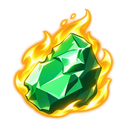
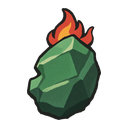
Redraw Burning Gem in native Slay the Spire relic style

diff --git a/docs/worktree-tasks/junna-gem-icons-20261112/README.md b/docs/worktree-tasks/junna-gem-icons-20261112/README.md
@@ -155,9 +155,9 @@ Report the resulting branch, commit, verification, cleanup state, and task docum
 
 ## Result and changes
 
-已按最新要求从原作参考从零独立重绘两版图标，资源验证及工作台同步完成，待用户确认后合并main。
+已按最新要求对照尖塔原版遗物从零重画燃烧宝石，资源验证及工作台同步完成，待用户确认后合并main。
 
-当前成品为 `art-v3/` 的初始版和 `art-v4/` 的燃烧火效版：绿色宝石为弓端完整圆润切面，燃烧宝石为纯那短刃柄端的不规则凸起断面，外侧添加狩猎的Revue燃烧段的金黄色光焰及白亮火芯。v3两次从零生成仅使用原作参考图；v4编辑升级版加火效，初始版主图与轮廓文件哈希不变。原图、完整提示词、Artifact Cleaner参数与原尺寸对照全部保留。四张游戏资源含两张独立白色轮廓，均为128×128透明PNG；32／48／64像素深浅背景检查及Godot导入/PCK读取通过。工作台r5007已更新升级遗物和契合池配图及火效说明，保留当前牌效。以下为此前过程记录。
+当前成品为 `art-v3/` 的初始版和 `art-v5/` 的本体画风燃烧宝石：升级版采用粗暗轮廓、红橙火舌、少量黄芯、哑光大切面和轻微干笔笔触。其画风直接参考燃烧之血、卡戎之灰、硫磺与贤者之石，物件保留纯那短刃不规则宝石的来源关系。原图、完整提示词、原版图标参考、Artifact Cleaner参数与原尺寸对照全部保留。初始版主图与轮廓文件哈希不变；四张游戏资源均为128×128透明PNG，32／48／64像素、原版同尺寸对照及Godot导入/PCK读取通过。工作台r5008已更新升级遗物与契合池配图/绘图说明，保留当前牌效。以下为此前过程记录。
 
 - 从 `main@e5bc4fa16f2e0adbcf02bdc46f298d5fd26e762a` 创建 `codex/junna-gem-icons-20261112`，原目录初始干净。
 - 在公开设定集预览中直接核对完整九人武器章，保存九人设定、额外道具/伦敦武器、纯那宝石放大图及剧场版脇差参考。来源、预览序号与书内页码区别见 [research.md](research.md)。
@@ -208,3 +208,11 @@ Report the resulting branch, commit, verification, cleanup state, and task docum
 本轮结果：已参考片段05:45的金黄色燃烧与白亮火芯、06:09短刃柄端光焰，为升级版增加向上卷起的金黄色火焰和暖色晕光。完整保留宝石可识别的不规则绿色断面，火焰和光晕均有透明边距。原尺寸Artifact Cleaner记录为art-v4/cleanup.json；初始版主图及轮廓哈希不变，验证见art-v4/validation.json；32／48／64像素深浅背景、四张纹理导入与PCK读取通过。工作台r5007仅更新燃烧宝石遗物与契合池的配图/绘图说明，当前回复3点生命的效果保留。合并与清理仍待确认。
 
 本轮任务提交为 `549dbc6`。随后在工作树中同步 `main@cff07e2d6278e5410304eafc420c36794efce8fc`，无冲突；升级火效及轮廓、初始版原值的哈希和游戏图片引用均与已验证结果一致。同步时主目录为main且干净，文档审查398份无本地绝对路径或凭据命中。新火效原图、清理成品、提示词和来源裁切均已提交保留。
+
+### 用户消息 9
+
+你这个火焰太特效了，参考尖塔画风完全重做
+
+计划修订：否定art-v4的发光特效画法。直接查看本体燃烧之血、卡戎之灰、硫磺及宝石图标，以本体的粗暗轮廓、哑光色块、有限明暗与轻微笔触从零重画燃烧宝石。保留纯那短刃不规则宝石的来源关系与无底座要求，火焰作为简洁的手绘红橙色形状融入图标，初始版保留。本轮源图、提示词、原生画风参考及验证独立存入art-v5/。
+
+本轮结果：内置image_gen仅以四张原版图标及原作不规则宝石设定图为输入，从零重画了升级版。已保存原版同尺寸对照、原始PNG、清理成品与完整提示词。Artifact Cleaner原尺寸处理后alpha和粗暗轮廓保持；初始版主图及轮廓SHA-256不变；32／48／64像素与Godot资源检查通过。工作台r5008仅更新燃烧宝石及其契合池的配图/绘图说明，效果字段保持当前回复3点生命。验证时主目录为main且干净，HEAD为cff07e2d6278e5410304eafc420c36794efce8fc，仍保留原审批范围，待用户确认合并和清理。

diff --git a/docs/worktree-tasks/junna-gem-icons-20261112/research.md b/docs/worktree-tasks/junna-gem-icons-20261112/research.md
@@ -2,7 +2,9 @@
 
 2026-11-12重新检索并直接查看了两本设定集的公开预览。
 
-当前成品为 `art-v3/` 的初始版和 `art-v4/` 的升级火效版。v3按用户要求仅以原作参考从零独立生成两张新图；初始版采用弓端完整切面，升级版采用纯那短刃柄端不规则凸起与断面。v4在该升级宝石外侧添加剧场版燃烧段的金黄色光焰、白亮火芯及暖色晕光，参考狩猎片段05:45与06:09，保留绿色切面。两版均无包托、底座或刀柄，各有独立轮廓。提示词及所有输入参考记录见对应目录的prompts.json。原尺寸Artifact Cleaner采用strength=0.25、interior_blend=0.25，原图alpha和深色轮廓保持；处理记录、原尺寸对照、小尺寸预览、Godot资源检查位于对应目录。工作台r5007已同步升级火效，初始版文件哈希保持v3原值。下文保留参考核对与此前草稿过程。
+当前成品为 `art-v3/` 的初始版和 `art-v5/` 的本体画风升级版。v5按照用户最新要求，直接参照本机原版提取图从零重画整张燃烧宝石：燃烧之血、卡戎之灰提供红橙火舌、少量黄芯和粗暗轮廓；硫磺、贤者之石提供哑光大色块、有限明暗与轻微笔触。火焰集中在宝石上缘后方，物件仍以纯那短刃不规则宝石为来源。v4的金黄色辉光版本已被用户否定，保留作过程记录。
+
+原版图标副本及SHA-256来源记录为 `art-v5/native-references.json`，来源根目录记为 `<vanilla-extraction>/extraction/raw/images/relics/`；同尺寸对照为 `art-v5/native-style-comparison.png`。提示词与输入记录见 `art-v5/prompts.json`，生成时没有输入此前生成图。原尺寸Artifact Cleaner采用strength=0.25、interior_blend=0.25，原图alpha和深色轮廓保持。小尺寸及Godot资源检查位于同目录，工作台r5008已同步；初始版主图和轮廓哈希保持v3原值。下文保留参考核对与此前草稿过程。
 
 ## 九人武器
 

diff --git a/docs/implementation/starter-relics.md b/docs/implementation/starter-relics.md
@@ -1,6 +1,6 @@
 # 初始遗物
 
-2026-11-12图标重绘：按用户要求从原作参考独立绘制两颗裸宝石。初始版依据《设定资料集》“翡翠弓”页，采用完整圆润轮廓及放射切面；升级版依据《Memory of Revue》书内119页的纯那脇差宝石，采用不规则、非对称凸起与断面，并按后续要求添加狩猎的Revue燃烧段的金黄色光焰、白亮火芯与暖色晕光。两版均去掉包托、底座和刀柄，使用128×128透明PNG及各自的白色悬停轮廓。本地Artifact Cleaner处理、生成原图、提示词和资源验证位于[任务记录](../worktree-tasks/junna-gem-icons-20261112/README.md)的art-v3/（初始版）和art-v4/（升级火效版）；造型来源见[武器参考](../worktree-tasks/junna-gem-icons-20261112/research.md)。以下为历史实现记录。
+2026-11-12图标重绘：初始版依据《设定资料集》“翡翠弓”页，采用完整圆润轮廓及放射切面；升级版的物件依据《Memory of Revue》书内119页纯那脇差柄端的不规则宝石。用户否定发光特效画法后，升级版对照尖塔本体燃烧之血、卡戎之灰、硫磺及贤者之石从零重画，采用红橙火舌、少量黄芯、粗暗轮廓、哑光大切面与轻微笔触。两版均去掉包托、底座和刀柄，使用128×128透明PNG及各自的白色悬停轮廓。本地Artifact Cleaner处理、生成原图、提示词和资源验证位于[任务记录](../worktree-tasks/junna-gem-icons-20261112/README.md)的art-v3/（初始版）和art-v5/（本体画风升级版）；来源见[武器参考](../worktree-tasks/junna-gem-icons-20261112/research.md)。以下为历史实现记录。
 
 | 遗物 | 效果 | 获取 |
 | --- | --- | --- |
